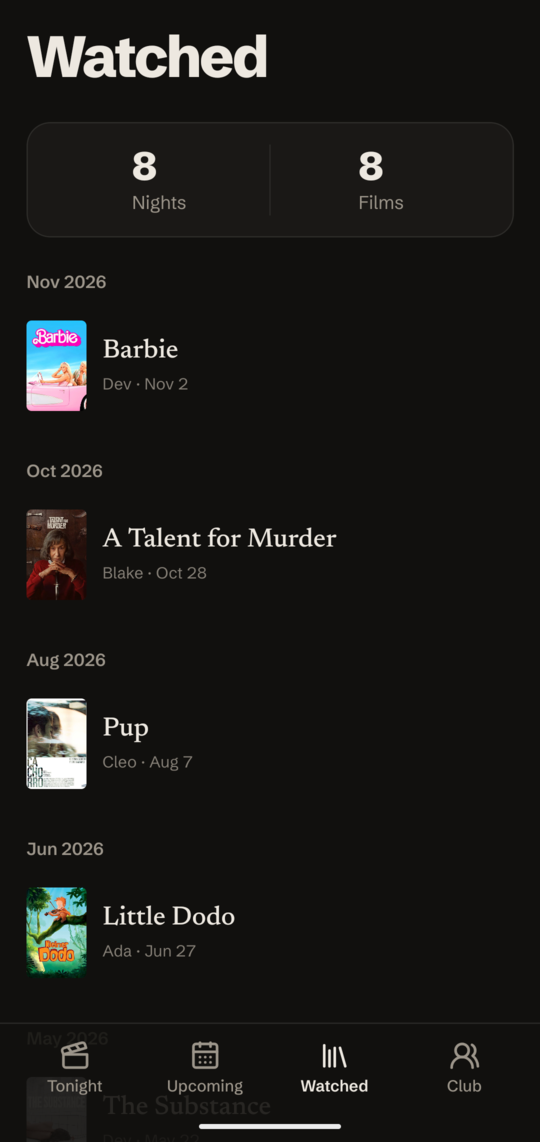
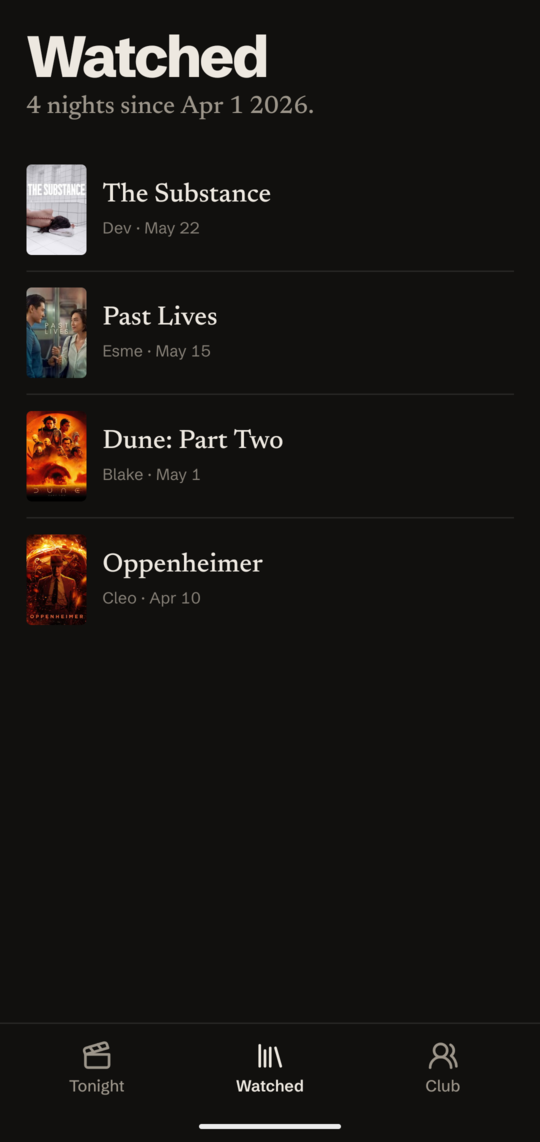
Docs: retake the README screenshots and catch the docs up with the app
The README screenshots still showed the four-tab app: the Upcoming tab,
"Start the night", the Watched stats row and month headers. Retake all
three on the phone (540x1142, no status bar): Tonight with Paddington 2
planned, the who's-coming step where Ada is out and the pick falls to Dev,
and the Watched list.

The seeded group was created at reseed time, so Watched read "4 nights
since <today>" above nights from April. Give it a founding date before
the first seeded night.

Bring the text up to date too:
- README: features for repeating nights, "We watched it", the
  already-watched hint in film search, and add to calendar.
- backend/README: drop the removed pick endpoint from the summary and the
  role from the turn response; GET /members returns every member with
  status and joinedOn, and so do the churn endpoints; list
  membership_writes.go and repeat.go.
- mobile/README: Watched has no month headers; list every Maestro flow;
  night/ also records a night as watched.
- docs/adr/README: the data model calls a Night a night, not a pick.

diff --git a/backend/README.md b/backend/README.md
@@ -2,9 +2,9 @@
 
 Go HTTP API over PostgreSQL. Serves the group roster and "whose turn" ranking,
 handles membership churn (join / deactivate / reactivate / promote), runs the
-per-night lifecycle (create, edit, pick), proxies movie search/attach
-through [TMDB](https://www.themoviedb.org), and sends push reminders before
-each night.
+per-night lifecycle (plan, edit, record as watched, cancel, and repeating
+series), proxies movie search/attach through [TMDB](https://www.themoviedb.org),
+and sends push reminders before each night.
 
 ## Stack
 
@@ -87,10 +87,10 @@ curl localhost:8080/groups/11111111-1111-1111-1111-111111111111/members
 | `GET` | `/healthz` | Liveness — `{"status":"ok"}`. |
 | `GET` | `/groups/{groupId}` | The group `{"name","createdOn"}` (`createdOn`: `YYYY-MM-DD`). |
 | `PATCH` | `/groups/{groupId}` | Rename the group. Body `{"name"}`; `400` if blank. Returns the group. |
-| `GET` | `/groups/{groupId}/members` | Active members in rotation order. |
-| `GET` | `/groups/{groupId}/turn` | Active core ranked least-served ([ADR-0005](../docs/adr/0005-least-served-turn-ranking.md)); element 0 is the picker. Returns `[{"id","name","role","servedCount","lastPickedOn"}]` (`lastPickedOn`: `YYYY-MM-DD` or `null`). |
+| `GET` | `/groups/{groupId}/members` | Every member `[{"id","name","role","status","joinedOn"}]` (`joinedOn`: `YYYY-MM-DD`): active core in rotation order, then active guests, then inactive members. |
+| `GET` | `/groups/{groupId}/turn` | Active core ranked least-served ([ADR-0005](../docs/adr/0005-least-served-turn-ranking.md)); element 0 is the picker. Returns `[{"id","name","servedCount","lastPickedOn"}]` (`lastPickedOn`: `YYYY-MM-DD` or `null`). |
 
-**Membership churn** ([ADR-0006](../docs/adr/0006-membership-churn-handling.md)) — each returns the updated member `{"id","name","role","status"}`; idempotent.
+**Membership churn** ([ADR-0006](../docs/adr/0006-membership-churn-handling.md)) — each returns the updated member `{"id","name","role","status","joinedOn"}`; idempotent.
 
 | Method | Path | Description |
 |--------|------|-------------|
@@ -190,10 +190,12 @@ backend/
 ├── group.go           # group read + rename
 ├── roster.go          # roster + turn handlers
 ├── turn.go            # least-served ranking response mapping
-├── membership.go      # join / deactivate / reactivate / promote (churn)
+├── membership.go      # join / deactivate / reactivate / promote (churn) handlers
+├── membership_writes.go # membership writes, each in one transaction
 ├── identity.go        # claimed identity, bearer tokens, push registration
 ├── nights.go          # night lifecycle handlers: create, read, edit, delete
 ├── night_writes.go    # Night writes (create, edit, cancel, film), each in one transaction
+├── repeat.go          # repeating nights: validation and the next date in a series
 ├── tx.go              # withTx — one transaction for a multi-statement write
 ├── movies.go          # movie search/attach handlers (TMDB-backed)
 ├── tmdb.go            # TMDB client

diff --git a/README.md b/README.md
@@ -11,11 +11,11 @@
 </p>
 
 <p align="center">
-  <img src="docs/screenshots/tonight.png" width="250" alt="Tonight: Paddington 2 on Friday, picked by Ada, with Cleo, Blake and Dev up next">
+  <img src="docs/screenshots/tonight.png" width="250" alt="Tonight: Paddington 2 on Friday, picked by Ada, with Dev, Cleo and Blake up next">
   &nbsp;
-  <img src="docs/screenshots/plan-who.png" width="250" alt="Planning a night: marking who's coming next Friday, and Esme gets the pick">
+  <img src="docs/screenshots/plan-who.png" width="250" alt="Planning a night: Ada can't come on Friday, so Dev gets the pick">
   &nbsp;
-  <img src="docs/screenshots/watched.png" width="250" alt="Watched: nights grouped by month, with posters, pickers and dates">
+  <img src="docs/screenshots/watched.png" width="250" alt="Watched: every night the group has had, newest first, with posters, pickers and dates">
 </p>
 
 Most movie apps help a group *agree* on a film. Movie Night does the opposite:
@@ -28,12 +28,18 @@ whose turn it is.
   a night delays your turn instead of losing it.
 - **Plan a night.** Pick a date, mark who's coming, and the turn goes to the
   next person in line who's there. Then find the film, with posters from
-  [TMDB](https://www.themoviedb.org).
-- **Tonight and Watched.** The next night and any others planned, and every
-  night the group has had: the film, who picked it, and who came.
+  [TMDB](https://www.themoviedb.org), and it tells you if the group has
+  already seen it.
+- **Repeating nights.** Every week, every other week, or the same weekday
+  each month. Once one night is watched or cancelled, the next one in the
+  series is planned.
+- **Tonight and Watched.** Tonight shows the next night, who picks after it,
+  and any other nights already planned. When a night is over, "We watched it"
+  records it on Watched with the film, who picked it, and who came.
 - **Members and guests.** Guests can join and pick sometimes without entering
   the rotation.
-- **Reminders** before each night.
+- **Reminders** before each night, and **add to calendar** for one night or
+  a whole weekly series.
 
 ## How it's built
 

diff --git a/mobile/README.md b/mobile/README.md
@@ -5,7 +5,7 @@ built with [expo-router](https://docs.expo.dev/router/introduction/):
 
 - **Tonight**: whose turn it is, who's on deck, the next night, and any
   other nights already planned.
-- **Watched**: every night the group has had, newest first, by month.
+- **Watched**: every night the group has recorded as watched, newest first.
 - **Club**: members in rotation, guests, and inactive members; add someone new.
 
 Settings (your identity, the group name, and reminders) opens from the gear on
@@ -99,8 +99,11 @@ fresh `curl` of the bundle shows new code.
 ### End-to-end tests (Maestro)
 
 `.maestro/` holds [Maestro](https://maestro.dev/) flows that drive the dev
-client on the adb-attached phone: plan a night, edit then cancel one, mark one
-watched, and add a member. Run them before merging a UI change:
+client on the adb-attached phone, one flow per thing a person does: plan a
+night (tonight or a later date), edit then cancel one, mark one watched, change
+a recorded night's film or who watched, check the rotation moves on, add,
+deactivate, reactivate or promote a member, join as a guest, switch identity,
+and rename the group. Run them before merging a UI change:
 
 ```bash
 just e2e "<text from your change>"                     # every flow
@@ -260,7 +263,7 @@ mobile/
 ├── app/               # expo-router screens
 │   ├── _layout.tsx    # root stack, fonts, theming
 │   ├── (tabs)/        # Tonight, Watched, Club
-│   ├── night/         # plan, view, and edit a night
+│   ├── night/         # plan, view, edit, and record a night as watched
 │   ├── member/        # member profile, add a member
 │   ├── rotation.tsx   # the full turn order
 │   ├── settings.tsx   # identity, group name, reminders (from Tonight's gear)

diff --git a/docs/adr/README.md b/docs/adr/README.md
@@ -37,15 +37,15 @@ schema definition.
 - **groups** — a movie-night crew.
 - **memberships** — person ↔ group link; `role` (core/guest), `status`
   (active/inactive), `baseline_picks`, `rotation_position`, join/leave timestamps.
-- **picks** — one per movie night (at most one per group per date); references the
+- **nights** — one per movie night (at most one per group per date); references the
   group, the picker (always an attendee — [ADR-0008](0008-night-always-has-a-picker.md)),
   and the chosen movie; carries `is_credited`, the scheduled date, an optional start time
   ([ADR-0011](0011-night-start-time-wall-clock.md)), when it was recorded as watched
   ([ADR-0012](0012-night-recorded-as-watched.md)), and an optional repeat
   ([ADR-0014](0014-repeating-nights.md)).
-- **attendances** — who was present at a given night (linked to that night's pick).
+- **attendances** — who was present at a given night.
 - **movies** — metadata cached from TMDB.
-- **reviews** — a person's rating/notes for a given night's pick.
+- **reviews** — a person's rating/notes for a given night's film.
 - **devices** — an install's claimed identity: the person and a hash of its bearer
   token ([ADR-0009](0009-claimed-identity-device-tokens.md)); later its push token
   and timezone ([ADR-0010](0010-server-push-reminders.md)).
